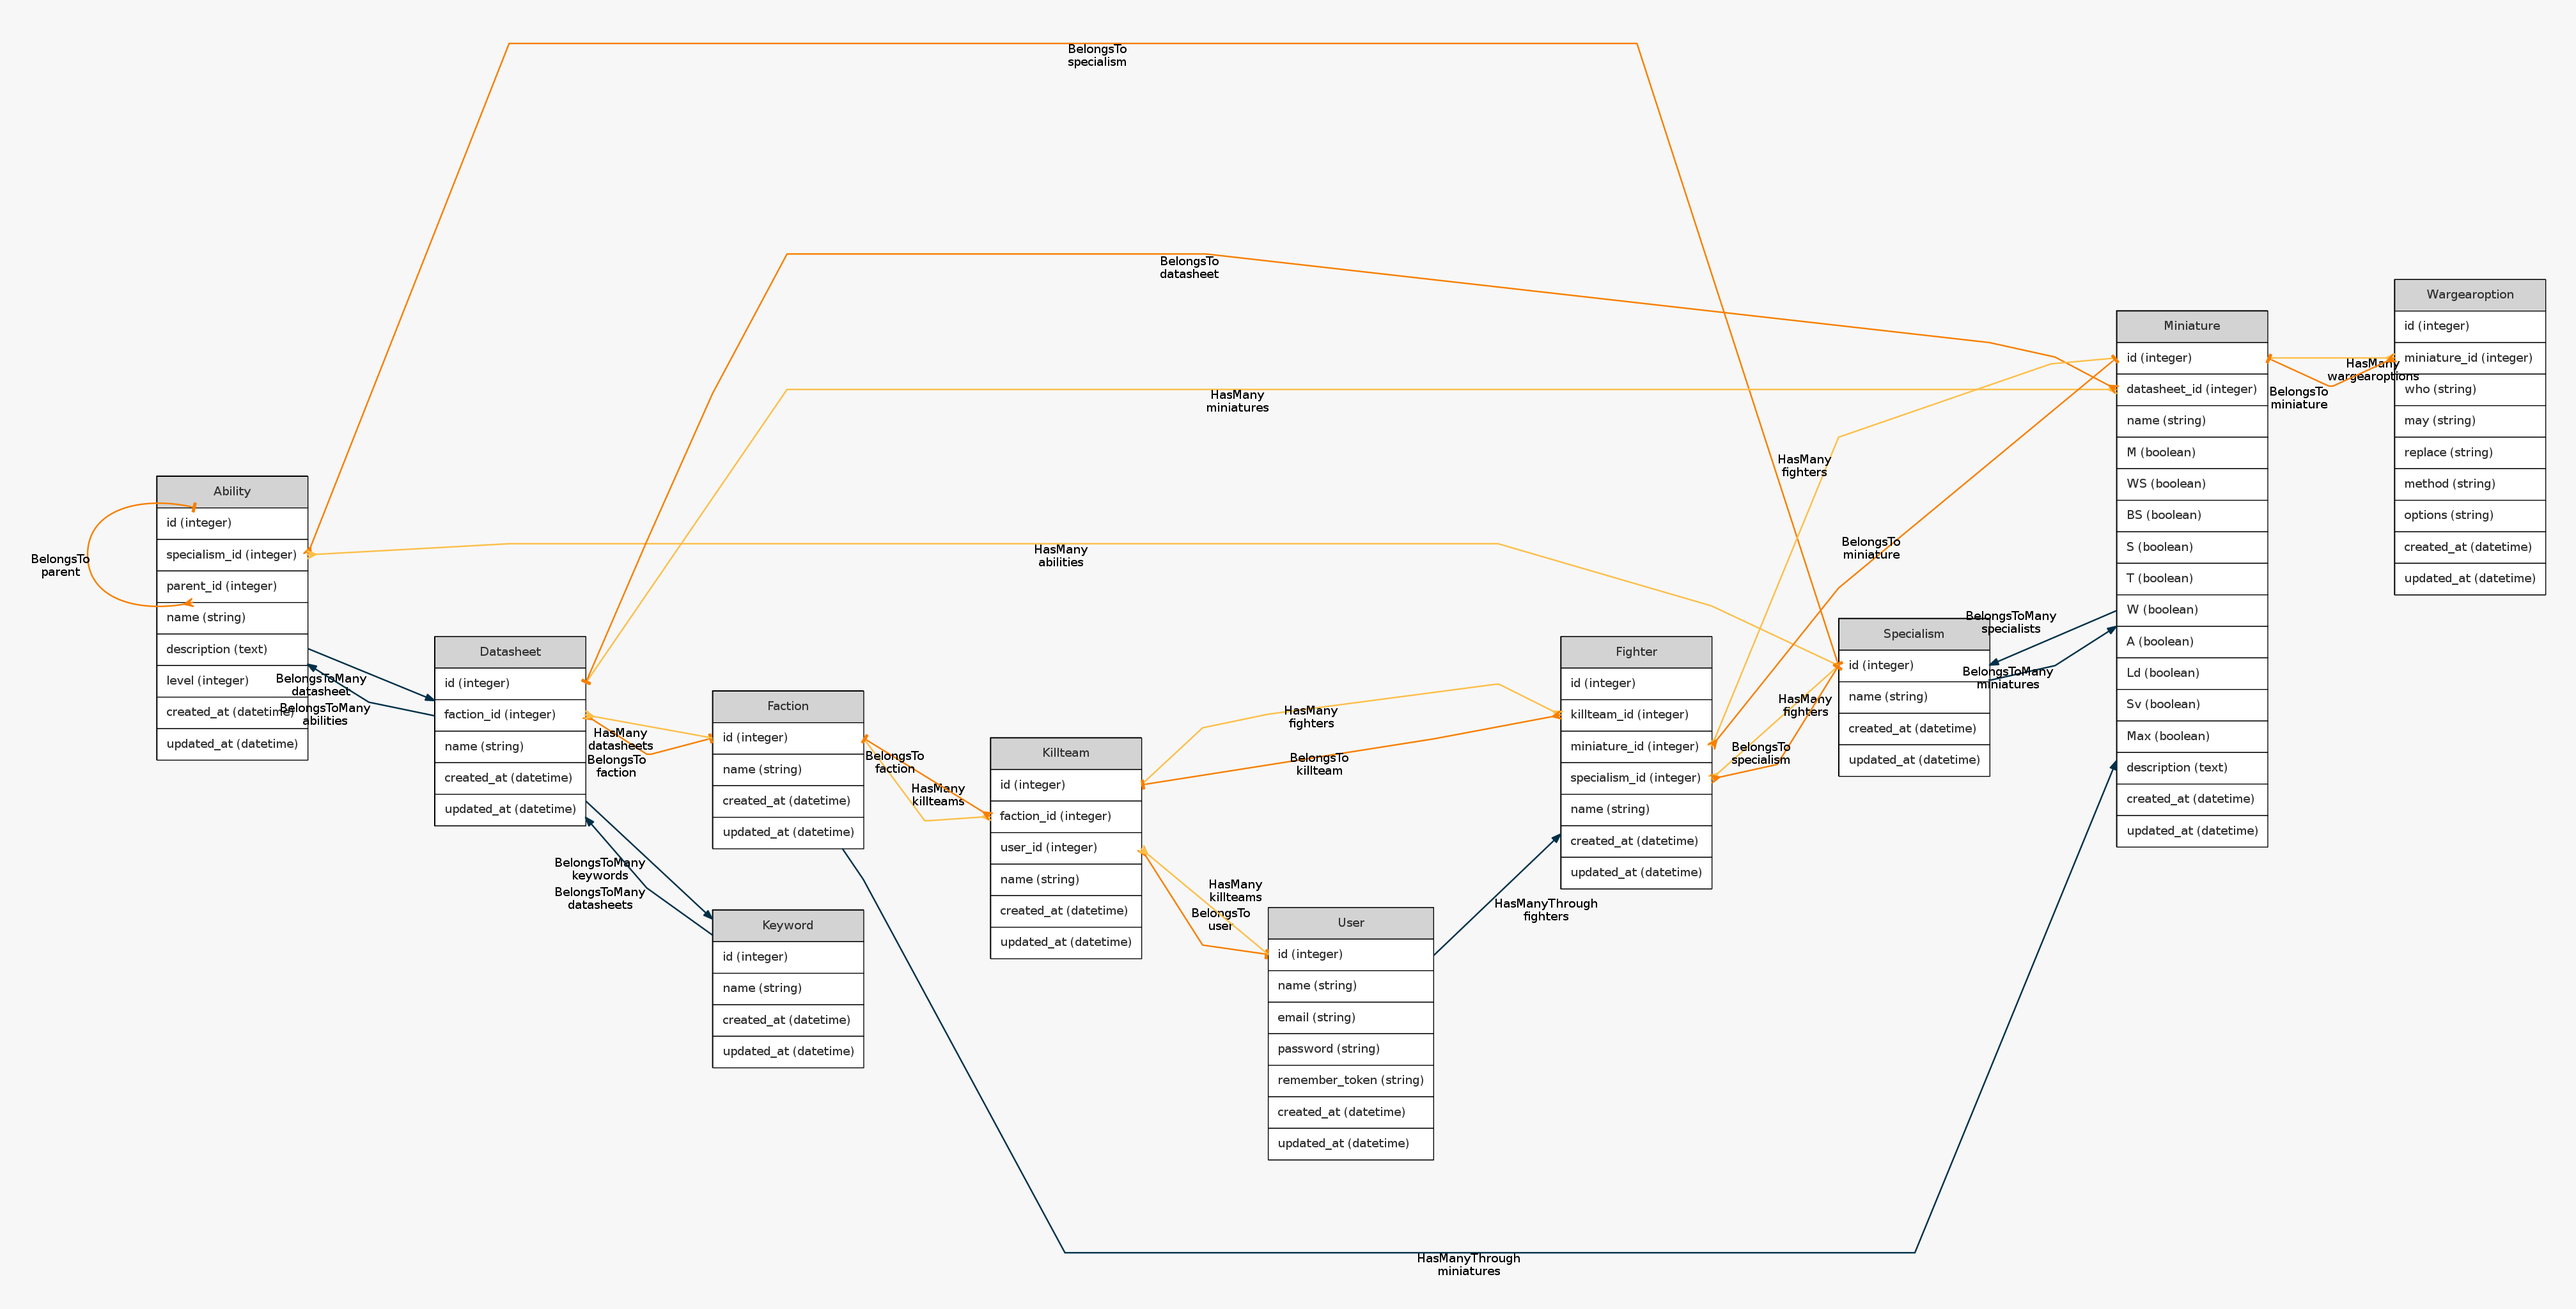
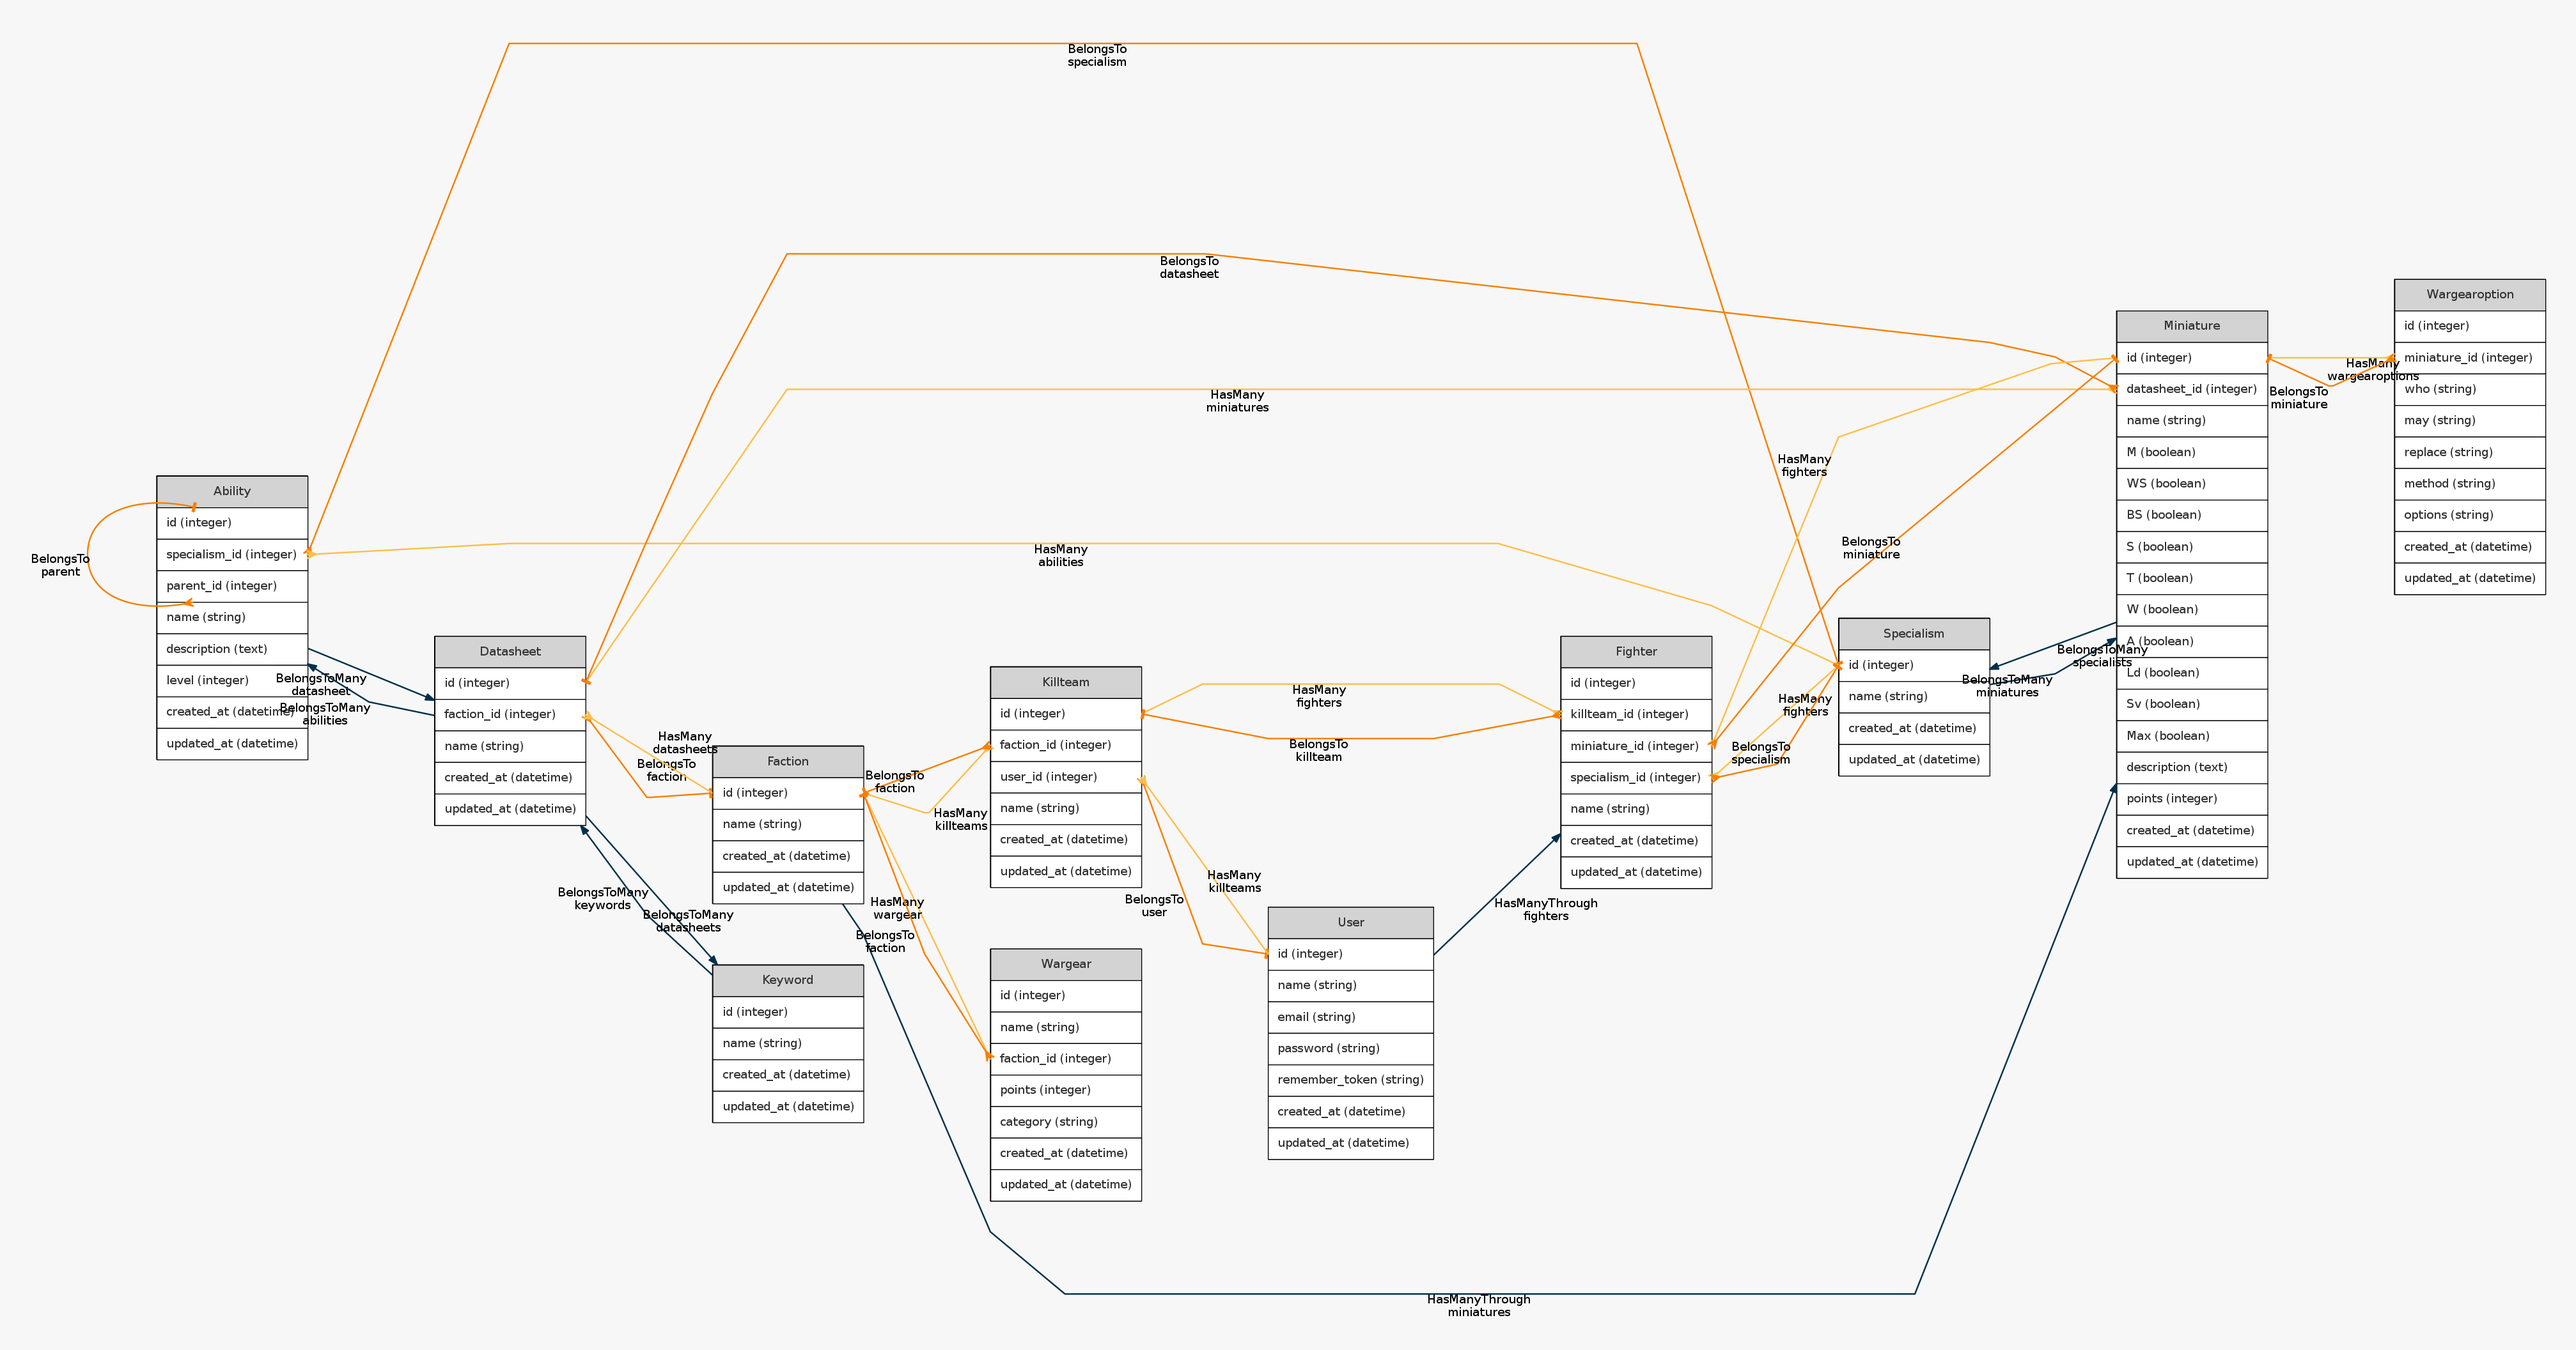
Moved stuff away from seeds to config and migrations. wargear_options are stored referentially, which also acts as a good validator.

diff --git a/app/Console/Commands/DeployFactions.php b/app/Console/Commands/DeployFactions.php
@@ -28,6 +28,8 @@ class DeployFactions extends Command
 
     protected $points = [];
 
+    protected $wargear = [];
+
     /**
      * Create a new command instance.
      *
@@ -84,6 +86,7 @@ class DeployFactions extends Command
                         $this->info('Inserting wargear: ' . $name);
                         $id = \DB::table('wargears')->insertGetId($row);
                     }
+                    $this->wargear[$name] = $id;
                 }
             }
         }
@@ -194,21 +197,41 @@ class DeployFactions extends Command
     public function initWargearoptions($wargear_options, $miniature_id, $mini_name)
     {
         foreach ($wargear_options as $wargear_option) {
+
             $row = [
                 'miniature_id' => $miniature_id,
                 'who' => $wargear_option->who,
                 'may' => $wargear_option->may,
                 'method' => $wargear_option->method,
-                'options' => json_encode($wargear_option->options),
+                'options' => json_encode($this->validateAndKeyWargear($wargear_option->options)),
             ];
             if (property_exists($wargear_option, 'replace')) {
-                $row['replace'] = json_encode($wargear_option->replace);
+                $row['replace'] = json_encode($this->validateAndKeyWargear($wargear_option->replace));
             }
             $id = $this->getIdByData('wargearoptions', $row);
             if (!$id) {
                 $this->info('Inserting wargear option for: ' . $mini_name);
                 $id = \DB::table('wargearoptions')->insertGetId($row);
             }
+        }
+    }
+
+    protected function validateAndKeyWargear($flexible_list)
+    {
+        if (is_array($flexible_list)) {
+            if (is_array($flexible_list[0])) {
+                return collect($flexible_list)->map(function ($x) {
+                    return collect($x)->map(function ($y) {
+                        return $this->wargear[$y];
+                    });
+                })->toArray();
+            } else {
+                return collect($flexible_list)->map(function ($x) {
+                    return $this->wargear[$x];
+                })->toArray();
+            }
+        } else {
+            return $this->wargear[$flexible_list];
         }
     }
 

diff --git a/config/warhammer.php b/config/warhammer.php
@@ -2,6 +2,13 @@
 
 return [
 
+    'factions' => [
+        'Adeptus Astartes', 'Grey Knights', 'Deathwatch', 'Astra Militarum',
+        'Adeptus Mechanicus', 'Heretic Astartes', 'Death Guard', 'Thousand Sons',
+        'Asuryani', 'Drukhari', 'Harlequins', 'Necrons', 'Orks', 'T\'au Empire',
+        'Tyranids', 'Genestealer Cults',
+    ],
+
     'profiles' => explode(' ', 'M WS BS S T W A Ld Sv Max'),
 
     'suffixes' => explode('-', '"-+-+------+-'),
@@ -9,6 +16,26 @@ return [
     'specialisms' => [
         'Leader', 'Combat', 'Comms', 'Demolitions',
         'Heavy', 'Medic', 'Scout', 'Sniper', 'Veteran', 'Zealot'
+    ],
+
+    'specialism_abilities' => [
+        // ['Name', level, parent_id, specialism_id]
+        // Leader
+        ['Resourceful', 1, null, 1],
+        ['Bold', 2, 1, 1],
+        ['Inspiring', 2, 1, 1],
+        ['Paragon', 3, 2, 1],
+        ['Tyrant', 3, 2, 1],
+        ['Tactician', 3, 3, 1],
+        ['Mentor', 3, 3, 1],
+        // Combat
+        ['Expert Fighter', 1, null, 2],
+        ['Warrior Adept', 2, 8, 2],
+        ['Deadly Counter', 2, 8, 2],
+        ['Deathblow', 3, 9, 2],
+        ['Combat Master', 3, 9, 2],
+        ['Killer Instinct', 3, 10, 2],
+        ['Bloodlust', 3, 10, 2],
     ],
 
     'gear' => [

diff --git a/database/seeds/SpecialistSeeder.php b/database/seeds/SpecialistSeeder.php
@@ -11,16 +11,15 @@ class SpecialistSeeder extends Seeder
      */
     public function run()
     {
-        $specialisms = \Config::get('warhammer.specialisms');
-
         $abilities = [
             ['Resourceful', 1, null, 1],
             ['Bold', 2, 1, 1],
-            ['Inspiring', 2, 1, 2],
+            ['Inspiring', 2, 1, 1],
             ['Paragon', 3, 2, 1],
             ['Tyrant', 3, 2, 1],
             ['Tactician', 3, 3, 1],
             ['Mentor', 3, 3, 1],
+
             ['Expert Fighter', 1, null, 2],
             ['Warrior Adept', 2, 8, 2],
             ['Deadly Counter', 2, 8, 2],
@@ -29,12 +28,6 @@ class SpecialistSeeder extends Seeder
             ['Killer Instinct', 3, 10, 2],
             ['Bloodlust', 3, 10, 2],
         ];
-
-        foreach ($specialisms as $name) {
-            DB::table('specialisms')->insert([
-                'name' => $name,
-            ]);
-        }
 
         foreach ($abilities as $ability) {
             DB::table('abilities')->insert([

diff --git a/database/migrations/2018_08_02_094018_create_abilities_table.php b/database/migrations/2018_08_02_094018_create_abilities_table.php
@@ -24,6 +24,15 @@ class CreateAbilitiesTable extends Migration
             $table->foreign('parent_id')->references('id')->on('abilities');
             $table->timestamps();
         });
+
+        foreach (\Config::get('warhammer.specialism_abilities') as $ability) {
+            DB::table('abilities')->insert([
+                'name' => $ability[0],
+                'level' => $ability[1],
+                'parent_id' => $ability[2],
+                'specialism_id' => $ability[3],
+            ]);
+        }
     }
 
     /**

diff --git a/database/migrations/2018_08_01_111417_create_specialisms_table.php b/database/migrations/2018_08_01_111417_create_specialisms_table.php
@@ -18,6 +18,14 @@ class CreateSpecialismsTable extends Migration
             $table->string('name');
             $table->timestamps();
         });
+
+        $specialisms = \Config::get('warhammer.specialisms');
+
+        foreach ($specialisms as $name) {
+            DB::table('specialisms')->insert([
+                'name' => $name,
+            ]);
+        }
     }
 
     /**

diff --git a/database/migrations/2018_08_01_095857_create_factions_table.php b/database/migrations/2018_08_01_095857_create_factions_table.php
@@ -18,6 +18,12 @@ class CreateFactionsTable extends Migration
             $table->string('name');
             $table->timestamps();
         });
+
+        foreach (\Config::get('warhammer.factions') as $name) {
+            DB::table('factions')->insert([
+                'name' => $name,
+            ]);
+        }
     }
 
     /**

diff --git a/database/seeds/DatabaseSeeder.php b/database/seeds/DatabaseSeeder.php
@@ -14,8 +14,8 @@ class DatabaseSeeder extends Seeder
 
         $this->call([
             UserSeeder::class,
-            SpecialistSeeder::class,
-            FactionSeeder::class,
+            //SpecialistSeeder::class,
+            //FactionSeeder::class,
             //AdeptusMechanicusSeeder::class,
         ]);
 

diff --git a/app/Http/Resources/FactionCollection.php b/app/Http/Resources/FactionCollection.php
@@ -14,6 +14,8 @@ class FactionCollection extends ResourceCollection
      */
     public function toArray($request)
     {
-        return parent::toArray($request);
+        return [
+            'data' => $this->collection,
+        ];
     }
 }
